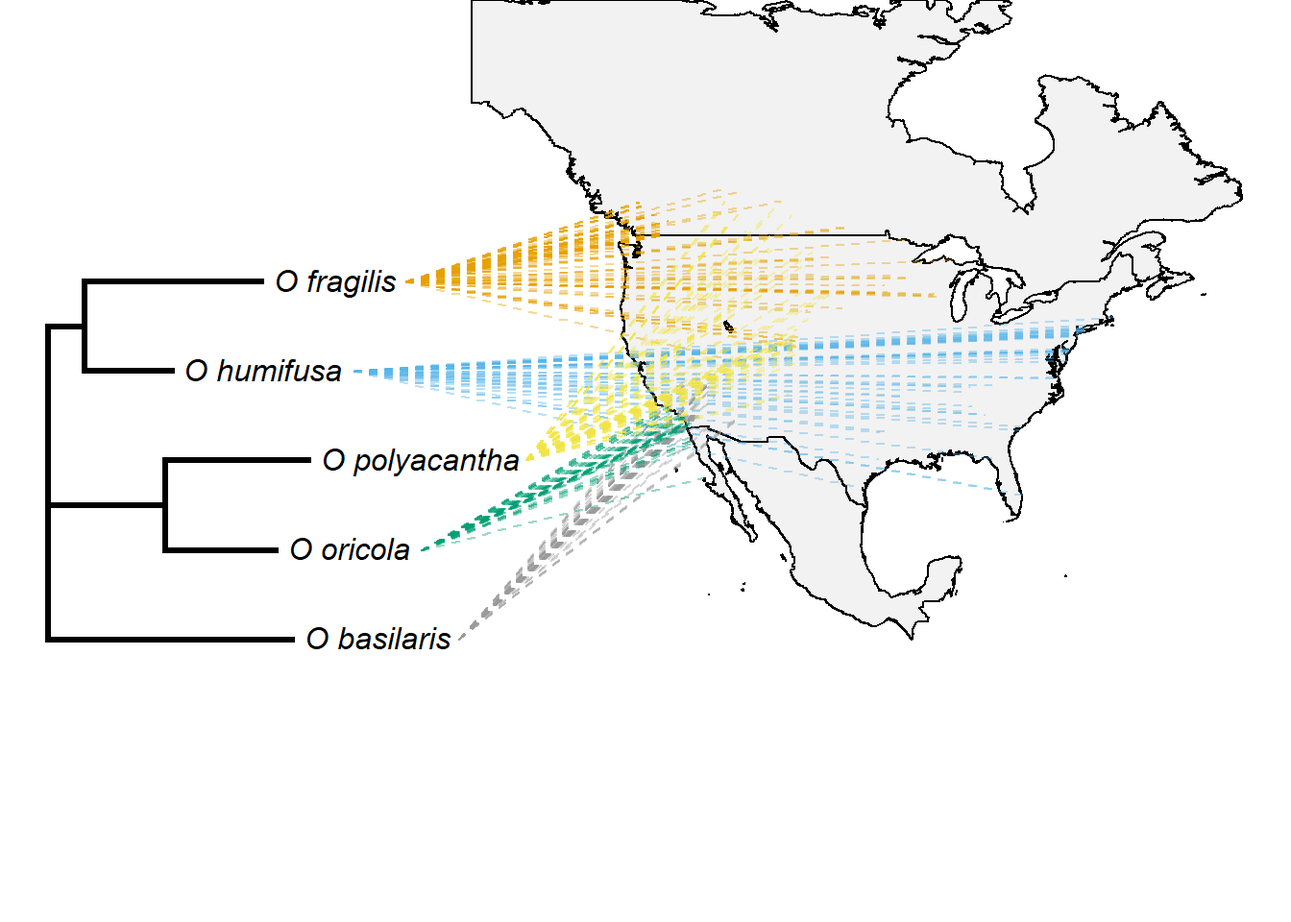
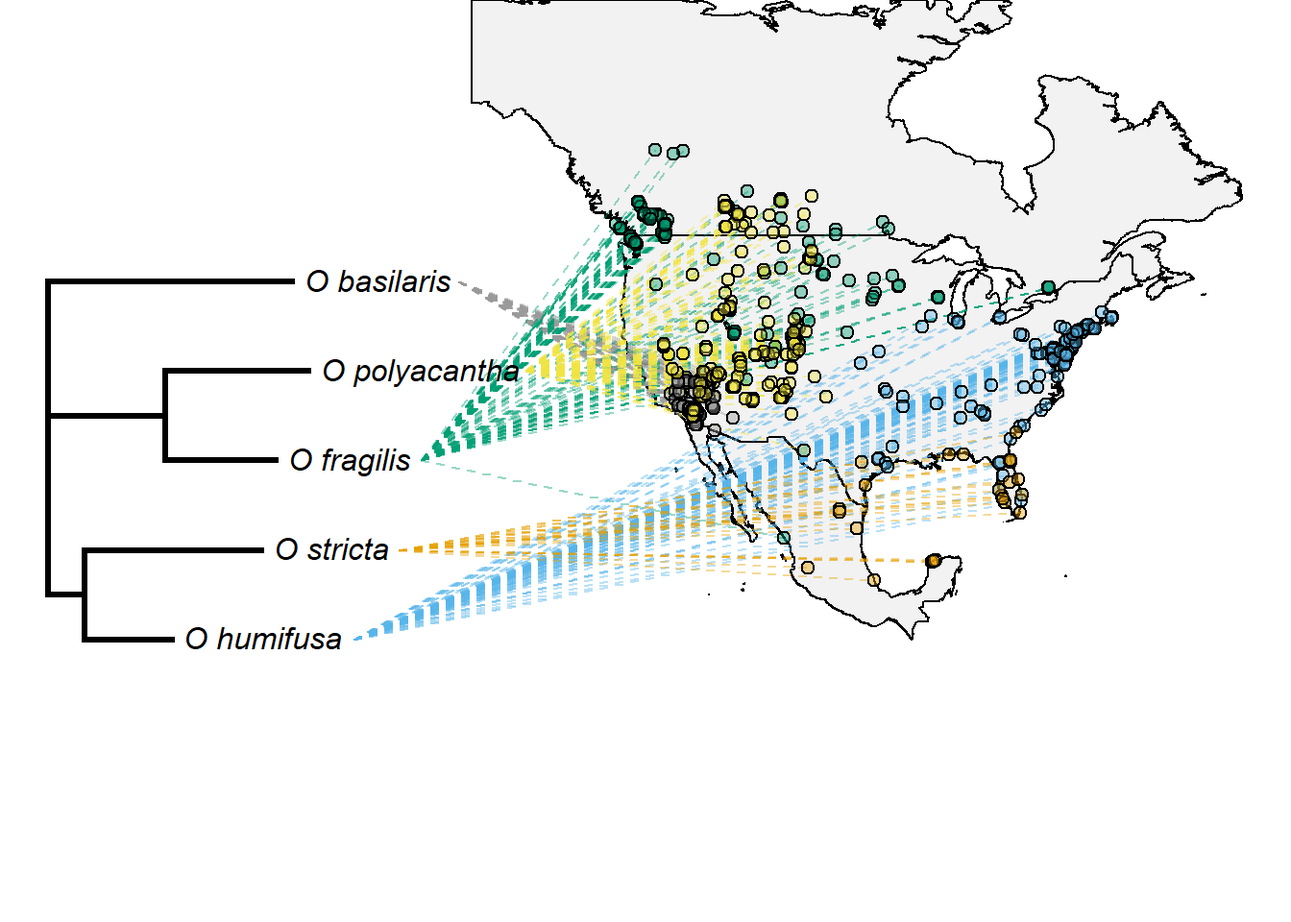
render lab10

diff --git a/docs/BIOL_324_Lab_10.html b/docs/BIOL_324_Lab_10.html
@@ -380,7 +380,7 @@ $(document).ready(function () {
 
 <h1 class="title toc-ignore">R Assignment 5: Combining Phylogenetics with Biogeography</h1>
 <h4 class="author">Mannfred Boehm</h4>
-<h4 class="date">13 August, 2020</h4>
+<h4 class="date">14 August, 2020</h4>
 
 </div>
 
@@ -440,7 +440,7 @@ $(document).ready(function () {
 <a class="sourceLine" id="cb4-4" title="4">   name <span class="op">==</span><span class="st"> &quot;Opuntia basilaris Engelm. &amp; J.M.Bigelow&quot;</span> <span class="op">~</span><span class="st"> &quot;O_basilaris&quot;</span>,</a>
 <a class="sourceLine" id="cb4-5" title="5">   name <span class="op">==</span><span class="st"> &quot;Opuntia fragilis (Nutt.) Haw.&quot;</span> <span class="op">~</span><span class="st"> &quot;O_fragilis&quot;</span>,</a>
 <a class="sourceLine" id="cb4-6" title="6">   name <span class="op">==</span><span class="st"> &quot;Opuntia humifusa Raf.&quot;</span> <span class="op">~</span><span class="st"> &quot;O_humifusa&quot;</span>,</a>
-<a class="sourceLine" id="cb4-7" title="7">   name <span class="op">==</span><span class="st"> &quot;Opuntia oricola Philbrick&quot;</span> <span class="op">~</span><span class="st"> &quot;O_oricola&quot;</span>,</a>
+<a class="sourceLine" id="cb4-7" title="7">   name <span class="op">==</span><span class="st"> &quot;Opuntia stricta (Haw.) Haw.&quot;</span> <span class="op">~</span><span class="st"> &quot;O_stricta&quot;</span>,</a>
 <a class="sourceLine" id="cb4-8" title="8">   name <span class="op">==</span><span class="st"> &quot;Opuntia polyacantha Haw.&quot;</span> <span class="op">~</span><span class="st"> &quot;O_polyacantha&quot;</span></a>
 <a class="sourceLine" id="cb4-9" title="9"> ))</a></code></pre></div>
 <p>Some more data organizing is needed.. we’ll reverse the order of the latitude and longitude columns in our GBIF dataset, and convert the <code>tibble</code> into a <code>matrix</code> (for <code>phytools</code>):</p>
@@ -455,67 +455,45 @@ $(document).ready(function () {
 <a class="sourceLine" id="cb6-4" title="4"><span class="co"># removes rows with NAs</span></a>
 <a class="sourceLine" id="cb6-5" title="5">latlong &lt;-<span class="st"> </span><span class="kw">na.omit</span>(latlong)</a></code></pre></div>
 <p>The species names need to match the exact spelling and format as in the phylogeny:</p>
-<div class="sourceCode" id="cb7"><pre class="sourceCode r"><code class="sourceCode r"><a class="sourceLine" id="cb7-1" title="1">rbcL_rooted<span class="op">$</span>tip.label &lt;-<span class="st"> </span><span class="kw">unique</span>(opuntia_fil<span class="op">$</span>short_names)</a></code></pre></div>
+<div class="sourceCode" id="cb7"><pre class="sourceCode r"><code class="sourceCode r"><a class="sourceLine" id="cb7-1" title="1">rbcL_rooted<span class="op">$</span>tip.label &lt;-<span class="st"> </span></a>
+<a class="sourceLine" id="cb7-2" title="2"><span class="st">  </span><span class="kw">c</span>(<span class="st">&quot;O_basilaris&quot;</span>, <span class="st">&quot;O_stricta&quot;</span>, <span class="st">&quot;O_humifusa&quot;</span>, <span class="st">&quot;O_fragilis&quot;</span>, <span class="st">&quot;O_polyacantha&quot;</span>)</a></code></pre></div>
 <p>And each species needs a unique colour:</p>
 <div class="sourceCode" id="cb8"><pre class="sourceCode r"><code class="sourceCode r"><a class="sourceLine" id="cb8-1" title="1">colours &lt;-<span class="st"> </span></a>
 <a class="sourceLine" id="cb8-2" title="2"><span class="st">  </span><span class="kw">setNames</span>(<span class="kw">c</span>(<span class="st">&#39;#999999&#39;</span>, <span class="st">&#39;#E69F00&#39;</span>, <span class="st">&#39;#56B4E9&#39;</span>, <span class="st">&#39;#009E73&#39;</span>, <span class="st">&#39;#F0E442&#39;</span>),</a>
 <a class="sourceLine" id="cb8-3" title="3">           rbcL_rooted<span class="op">$</span>tip.label)</a></code></pre></div>
-<div class="sourceCode" id="cb9"><pre class="sourceCode r"><code class="sourceCode r"><a class="sourceLine" id="cb9-1" title="1"><span class="cf">for</span>(i <span class="cf">in</span> <span class="dv">1</span><span class="op">:</span><span class="kw">Ntip</span>(rbcL_rooted)){</a>
-<a class="sourceLine" id="cb9-2" title="2">  spr&lt;-latlong[<span class="kw">which</span>(<span class="kw">rownames</span>(latlong)<span class="op">==</span>rbcL_rooted<span class="op">$</span>tip.label[i]),]</a>
-<a class="sourceLine" id="cb9-3" title="3">  mcp&lt;-<span class="cf">if</span>(i<span class="op">==</span><span class="dv">1</span>) spr[<span class="kw">chull</span>(spr),] <span class="cf">else</span> <span class="kw">rbind</span>(mcp,spr[<span class="kw">chull</span>(spr),])</a>
-<a class="sourceLine" id="cb9-4" title="4">}</a>
-<a class="sourceLine" id="cb9-5" title="5"></a>
-<a class="sourceLine" id="cb9-6" title="6">obj &lt;-<span class="st"> </span></a>
-<a class="sourceLine" id="cb9-7" title="7"><span class="st">  </span><span class="kw">phylo.to.map</span>(</a>
-<a class="sourceLine" id="cb9-8" title="8">    rbcL_rooted, </a>
-<a class="sourceLine" id="cb9-9" title="9">    latlong, </a>
-<a class="sourceLine" id="cb9-10" title="10">    <span class="dt">regions =</span> <span class="kw">c</span>(<span class="st">&quot;Canada&quot;</span>, <span class="st">&quot;USA&quot;</span>, <span class="st">&quot;Mexico&quot;</span>),</a>
-<a class="sourceLine" id="cb9-11" title="11">    <span class="dt">database =</span> <span class="st">&quot;worldHires&quot;</span>,</a>
-<a class="sourceLine" id="cb9-12" title="12">    <span class="dt">xlim =</span> <span class="kw">c</span>(<span class="op">-</span><span class="dv">135</span>, <span class="dv">-55</span> ),  </a>
-<a class="sourceLine" id="cb9-13" title="13">    <span class="dt">ylim =</span> <span class="kw">c</span>(<span class="dv">10</span>, <span class="dv">45</span>),</a>
-<a class="sourceLine" id="cb9-14" title="14">    <span class="dt">asp =</span> <span class="dv">4</span>,</a>
-<a class="sourceLine" id="cb9-15" title="15">    <span class="dt">lwd =</span> <span class="dv">1</span>,</a>
-<a class="sourceLine" id="cb9-16" title="16">    <span class="dt">plot =</span> <span class="ot">FALSE</span>)</a>
-<a class="sourceLine" id="cb9-17" title="17"></a>
-<a class="sourceLine" id="cb9-18" title="18"><span class="kw">plot</span>(</a>
-<a class="sourceLine" id="cb9-19" title="19">  obj, </a>
-<a class="sourceLine" id="cb9-20" title="20">  <span class="dt">direction =</span> <span class="st">&quot;rightwards&quot;</span>, </a>
-<a class="sourceLine" id="cb9-21" title="21">  <span class="dt">colors =</span> <span class="kw">sapply</span>(colours, make.transparent, <span class="fl">0.4</span>),</a>
-<a class="sourceLine" id="cb9-22" title="22">  <span class="dt">pts =</span> <span class="ot">FALSE</span>,</a>
-<a class="sourceLine" id="cb9-23" title="23">  <span class="dt">cex.points =</span> <span class="kw">c</span>(<span class="dv">0</span>,<span class="dv">0</span>),</a>
-<a class="sourceLine" id="cb9-24" title="24">  <span class="dt">lwd =</span> <span class="kw">c</span>(<span class="dv">3</span>,<span class="dv">1</span>),</a>
-<a class="sourceLine" id="cb9-25" title="25">  <span class="dt">asp =</span> <span class="fl">1.3</span>,</a>
-<a class="sourceLine" id="cb9-26" title="26">  <span class="dt">ftype =</span><span class="st">&quot;i&quot;</span>)</a></code></pre></div>
-<pre><code>## &quot;phylo.to.map&quot; direction is &quot;downwards&quot; but plot direction has been given as &quot;rightwards&quot;.
-## Re-optimizing object....</code></pre>
+<div class="sourceCode" id="cb9"><pre class="sourceCode r"><code class="sourceCode r"><a class="sourceLine" id="cb9-1" title="1">obj &lt;-<span class="st"> </span></a>
+<a class="sourceLine" id="cb9-2" title="2"><span class="st">  </span><span class="kw">phylo.to.map</span>(</a>
+<a class="sourceLine" id="cb9-3" title="3">    rbcL_rooted, </a>
+<a class="sourceLine" id="cb9-4" title="4">    latlong, </a>
+<a class="sourceLine" id="cb9-5" title="5">    <span class="dt">rotate =</span> <span class="ot">FALSE</span>,</a>
+<a class="sourceLine" id="cb9-6" title="6">    <span class="dt">regions =</span> <span class="kw">c</span>(<span class="st">&quot;Canada&quot;</span>, <span class="st">&quot;USA&quot;</span>, <span class="st">&quot;Mexico&quot;</span>),</a>
+<a class="sourceLine" id="cb9-7" title="7">    <span class="dt">database =</span> <span class="st">&quot;worldHires&quot;</span>,</a>
+<a class="sourceLine" id="cb9-8" title="8">    <span class="dt">xlim =</span> <span class="kw">c</span>(<span class="op">-</span><span class="dv">135</span>, <span class="dv">-55</span> ),  </a>
+<a class="sourceLine" id="cb9-9" title="9">    <span class="dt">ylim =</span> <span class="kw">c</span>(<span class="dv">10</span>, <span class="dv">45</span>),</a>
+<a class="sourceLine" id="cb9-10" title="10">    <span class="dt">asp =</span> <span class="dv">4</span>,</a>
+<a class="sourceLine" id="cb9-11" title="11">    <span class="dt">lwd =</span> <span class="dv">1</span>,</a>
+<a class="sourceLine" id="cb9-12" title="12">    <span class="dt">plot =</span> <span class="ot">FALSE</span>)</a>
+<a class="sourceLine" id="cb9-13" title="13"></a>
+<a class="sourceLine" id="cb9-14" title="14"><span class="kw">plot</span>(</a>
+<a class="sourceLine" id="cb9-15" title="15">  obj, </a>
+<a class="sourceLine" id="cb9-16" title="16">  <span class="dt">direction =</span> <span class="st">&quot;rightwards&quot;</span>, </a>
+<a class="sourceLine" id="cb9-17" title="17">  <span class="dt">colors =</span> <span class="kw">sapply</span>(colours, make.transparent, <span class="fl">0.4</span>),</a>
+<a class="sourceLine" id="cb9-18" title="18">  <span class="dt">pts =</span> <span class="ot">TRUE</span>,</a>
+<a class="sourceLine" id="cb9-19" title="19">  <span class="dt">cex.points =</span> <span class="kw">c</span>(<span class="dv">0</span>,<span class="dv">1</span>),</a>
+<a class="sourceLine" id="cb9-20" title="20">  <span class="dt">lwd =</span> <span class="kw">c</span>(<span class="dv">3</span>,<span class="dv">1</span>),</a>
+<a class="sourceLine" id="cb9-21" title="21">  <span class="dt">asp =</span> <span class="fl">1.3</span>,</a>
+<a class="sourceLine" id="cb9-22" title="22">  <span class="dt">ftype =</span><span class="st">&quot;i&quot;</span>)</a></code></pre></div>
 <p><img src="BIOL_324_Lab_10_files/figure-html/unnamed-chunk-9-1.png" width="672" /></p>
-<hr />
-</div>
-<div id="activity-2-deciphering-some-code" class="section level4">
-<h4>Activity 2: Deciphering some code</h4>
-<p>Let’s step through the script in order to understand what is happening here.</p>
-<p><br></p>
-<p><strong>Lines 14-18</strong>: The <code>library()</code> function loads various packages designed specifically for organizing data (<code>tidyverse</code>), creating custom colour palettes (<code>viridis</code>), and mapping (<code>mapdata</code>, <code>phytools</code>).</p>
-<p><strong>Lines 24-27</strong>: Import your GBIF and phylogenetic data from previous assignments.</p>
-<p><strong>Lines 30-38</strong>: To reduce clutter in our plot, we’ll rename the rows in our dataframe with shortened versions of the species’ names.</p>
-<p><strong>Lines 41-44</strong>: We’ll extract the latitude and longitude information from our larger dataframe, and store it as a <code>matrix</code> style object. (This is because <code>phytools::phylo.to.map()</code> can only handle lat-long info of the <code>matrix</code> class.)</p>
-<p><strong>Line 50</strong>: Here, we’re removing any rows that have missing lat-long information (NAs).</p>
-<p><strong>Line 53</strong>: In order to combine the phylogenetic and distribution data, both data objects need to have the species names in the same format.</p>
-<p><strong>Lines 71-81</strong>: The <code>phytools::phylo.to.map()</code> function combines our distribution data <code>latlong</code> with our phylogenetic tree <code>con_tree_rooted</code>. We use the <code>regions</code> parameter to specify what parts of the world to plot, and we’ll use the ‘Hi-resolution World’ setting under <code>database</code>.</p>
-<p><strong>Lines 84-92</strong>: We can plot our combined dataset using the <code>phytools::plot()</code> function.</p>
-<p><br></p>
-<div class="figure">
-<img src="opuntia_phylogeography_pts.jpg" alt="Figure 1: Phylogeographic distribution (with points) of some North American Opuntia." />
-<p class="caption">Figure 1: Phylogeographic distribution (with points) of some North American <em>Opuntia</em>.</p>
-</div>
-<p><br> <br></p>
-<p><strong>Lines 84-92</strong>: In this example, we’ve set <code>cex.points</code> to zero, which tells the plotting function not to plots circles at each lat-long location. This can make our map a bit cleaner when plotting hulls.</p>
-<p><br></p>
-<div class="figure">
-<img src="opuntia_phylogeography_hulls.jpg" alt="Figure 2: Phylogeographic distribution (with hulls) of some North American Opuntia." />
-<p class="caption">Figure 2: Phylogeographic distribution (with hulls) of some North American <em>Opuntia</em>.</p>
-</div>
-<p><br> <br></p>
+<!-- To plot polygons, set pts = FALSE and cex.point = c(0,0) in plot() and run: -->
+<!-- for(i in 1:Ntip(rbcL_rooted)){ -->
+<!--   spr<-latlong[which(rownames(latlong)==rbcL_rooted$tip.label[i]),] -->
+<!--   mcp<-if(i==1) spr[chull(spr),] else rbind(mcp,spr[chull(spr),]) -->
+<!-- } -->
+<!-- for(i in 1:Ntip(rbcL_rooted)){ -->
+<!--   ii<-which(rownames(mcp)==rbcL_rooted$tip.label[i]) -->
+<!--   polygon(mcp[ii,2:1],col=make.transparent(colours[rbcL_rooted$tip.label[i]],0.8), -->
+<!--           border="darkgrey") -->
+<!-- } -->
 </div>
 
 

diff --git a/docs/BIOL_324_Lab_9.html b/docs/BIOL_324_Lab_9.html
@@ -380,7 +380,7 @@ $(document).ready(function () {
 
 <h1 class="title toc-ignore">R Assignment 4: Creating Phylogenetic Trees using Genbank data</h1>
 <h4 class="author">Mannfred Boehm</h4>
-<h4 class="date">13 August, 2020</h4>
+<h4 class="date">14 August, 2020</h4>
 
 </div>
 
@@ -455,7 +455,7 @@ $(document).ready(function () {
 <p>We can inspect the DNA sequence for <em>O. basilaris</em> by running:</p>
 <div class="sourceCode" id="cb5"><pre class="sourceCode r"><code class="sourceCode r"><a class="sourceLine" id="cb5-1" title="1"><span class="kw">head</span>(matK<span class="op">$</span><span class="st">`</span><span class="dt">O. basilaris</span><span class="st">`</span>)</a></code></pre></div>
 <pre><code>## [1] &quot;TCAATATTTCCCTTTTTCGAGGACAAATTCTTACATTTAAATTATGTGTTAAAAATATTAATACCTTACCCCATTCATCTAGAAATCTTGGTTCAAACTCTTCGTTACTGGGTGAAAGATGCTTCTTCTTTGCATTTATTACGATTCTTTCTTTATGAGTATCGTAATTGGAATAGTCTTATTACTCCCCAAAAATCCATTTCTATTTTTTCAAAAAAGAATCAACGATTATTCTTGTTCCTATATAATTTCCATGTATGTGAATACGAATCCATTTTCGTTTTTCTCTGTAACCAATCCTCTCATTTACGATCTTTTACTTTTGGAGCCCTTCTTGAACGAATCTATTTTTATGGAAAGCGTGAATATCTAGTAAAAGTAAAAACTTTATCTAAGGATTTTCGTCTTATCTTATGGCTTTTCAAAGACCCTTTCCTGCATTATGAATTGTATCGAGGAAAAGAAATTCTGGCTTCAAAGGGGACATCTCTTCTGATGCATAAATGGAAATATTATCTTAACAATTTTTGGCAATGCCATTTTTCCCTGTGGTCTCAACCAAGAAGAATCTATATCAATCGATTATCAAAGCATTCTCTCGACTTTATGAGTTTTTTTTCAAGTGTTCGACTCAATTCTTCAGTGGTACGGAGTCAAATGGTAGAAAATTCATTTCTAATAGATAATCCTATTAAGAAATTCGATACCATAGTTCGAATTATTCCTCTGGTTGGATCGTTGGCTAAAGCGAAATTTTGTAACGTATTAGGACATCCCGTTAGTAAGTCGGTCTGGACCGATTTATTAGATTCTGATATTATTGATCGGTTTGGGCGCATATGCAGAAATCTTTCTCATTATTATAGTGGCTCTTCAAGAAAAAAGAGTTTGTATCGAATAAAGTATATA&quot;</code></pre>
-<p>Cool, <a href="https://pubmed.ncbi.nlm.nih.gov/16100764/">I feel like I’m on CSI</a>. The code for searching and downloading the rbcL sequences is similar:</p>
+<p>Cool, <a href="https://pubmed.ncbi.nlm.nih.gov/16100764/">it’s like we’re on CSI</a>. The code for searching and downloading the rbcL sequences is similar:</p>
 <div class="sourceCode" id="cb7"><pre class="sourceCode r"><code class="sourceCode r"><a class="sourceLine" id="cb7-1" title="1"><span class="co"># call GenBank</span></a>
 <a class="sourceLine" id="cb7-2" title="2">rbcL &lt;-<span class="st"> </span></a>
 <a class="sourceLine" id="cb7-3" title="3"><span class="st">  </span><span class="kw">read.GenBank</span>(</a>
@@ -496,8 +496,9 @@ $(document).ready(function () {
 <a class="sourceLine" id="cb11-3" title="3">      <span class="dt">type =</span><span class="st">&#39;dna&#39;</span>, </a>
 <a class="sourceLine" id="cb11-4" title="4">      <span class="dt">method =</span><span class="st">&#39;ClustalW&#39;</span>,</a>
 <a class="sourceLine" id="cb11-5" title="5">      <span class="dt">verbose =</span> <span class="ot">TRUE</span>)</a></code></pre></div>
-<div class="sourceCode" id="cb12"><pre class="sourceCode r"><code class="sourceCode r"><a class="sourceLine" id="cb12-1" title="1"><span class="co"># inspect alignment</span></a>
-<a class="sourceLine" id="cb12-2" title="2"><span class="kw">print</span>(rbcL_alignment)</a></code></pre></div>
+<pre><code>## use default substitution matrix</code></pre>
+<div class="sourceCode" id="cb13"><pre class="sourceCode r"><code class="sourceCode r"><a class="sourceLine" id="cb13-1" title="1"><span class="co"># inspect alignment</span></a>
+<a class="sourceLine" id="cb13-2" title="2"><span class="kw">print</span>(rbcL_alignment)</a></code></pre></div>
 <pre><code>## CLUSTAL 2.1  
 ## 
 ## Call:
@@ -512,29 +513,29 @@ $(document).ready(function () {
 ## [5] --TTTTAAAGTAAACTATGTCGAAAT...TAAAAATTTTCATCAAATTAAGTTG O. polyacantha
 ## Con -----TAAAGTAAACTATGTCGAAAT...TAAAAATTTTCATCAAAT------- Consensus</code></pre>
 <p>We’re ready to create some phylogenetic trees! First, we’ll convert our alignment objects to <code>seqinr</code> objects. Then, we’ll use the <code>dist.alignment()</code> function to calculate how similar or different each species’ sequence is from one another. We’ll do this for the matK, rbcL, and concatenated sequences, so that we can compare the trees:</p>
-<div class="sourceCode" id="cb14"><pre class="sourceCode r"><code class="sourceCode r"><a class="sourceLine" id="cb14-1" title="1"><span class="co"># convert alignment object into seqinr object </span></a>
-<a class="sourceLine" id="cb14-2" title="2">matK_r &lt;-<span class="st"> </span><span class="kw">msaConvert</span>(matK_alignment, <span class="dt">type=</span><span class="st">&quot;seqinr::alignment&quot;</span>) </a>
-<a class="sourceLine" id="cb14-3" title="3">rbcL_r &lt;-<span class="st"> </span><span class="kw">msaConvert</span>(rbcL_alignment, <span class="dt">type=</span><span class="st">&quot;seqinr::alignment&quot;</span>) </a>
-<a class="sourceLine" id="cb14-4" title="4">  </a>
-<a class="sourceLine" id="cb14-5" title="5"><span class="co"># create distance matrices</span></a>
-<a class="sourceLine" id="cb14-6" title="6">matK_dist &lt;-<span class="st"> </span><span class="kw">dist.alignment</span>(matK_r)</a>
-<a class="sourceLine" id="cb14-7" title="7">rbcL_dist &lt;-<span class="st"> </span><span class="kw">dist.alignment</span>(rbcL_r)</a></code></pre></div>
+<div class="sourceCode" id="cb15"><pre class="sourceCode r"><code class="sourceCode r"><a class="sourceLine" id="cb15-1" title="1"><span class="co"># convert alignment object into seqinr object </span></a>
+<a class="sourceLine" id="cb15-2" title="2">matK_r &lt;-<span class="st"> </span><span class="kw">msaConvert</span>(matK_alignment, <span class="dt">type=</span><span class="st">&quot;seqinr::alignment&quot;</span>) </a>
+<a class="sourceLine" id="cb15-3" title="3">rbcL_r &lt;-<span class="st"> </span><span class="kw">msaConvert</span>(rbcL_alignment, <span class="dt">type=</span><span class="st">&quot;seqinr::alignment&quot;</span>) </a>
+<a class="sourceLine" id="cb15-4" title="4">  </a>
+<a class="sourceLine" id="cb15-5" title="5"><span class="co"># create distance matrices</span></a>
+<a class="sourceLine" id="cb15-6" title="6">matK_dist &lt;-<span class="st"> </span><span class="kw">dist.alignment</span>(matK_r)</a>
+<a class="sourceLine" id="cb15-7" title="7">rbcL_dist &lt;-<span class="st"> </span><span class="kw">dist.alignment</span>(rbcL_r)</a></code></pre></div>
 <p>Now, we’ll use the <code>nj()</code> function to construct trees. In the next step, we’ll ‘root’ our trees by deciding which species is the outgroup:</p>
-<div class="sourceCode" id="cb15"><pre class="sourceCode r"><code class="sourceCode r"><a class="sourceLine" id="cb15-1" title="1"><span class="co"># neighbour joining trees</span></a>
-<a class="sourceLine" id="cb15-2" title="2">matK_tree &lt;-<span class="st"> </span><span class="kw">nj</span>(matK_dist)</a>
-<a class="sourceLine" id="cb15-3" title="3">rbcL_tree &lt;-<span class="st"> </span><span class="kw">nj</span>(rbcL_dist)</a>
-<a class="sourceLine" id="cb15-4" title="4"></a>
-<a class="sourceLine" id="cb15-5" title="5">rbcL_rooted &lt;-<span class="st"> </span><span class="kw">root</span>(rbcL_tree, <span class="dt">outgroup =</span> <span class="st">&#39;O. basilaris&#39;</span>, <span class="dt">resolve.root =</span> T)</a>
-<a class="sourceLine" id="cb15-6" title="6">matK_rooted &lt;-<span class="st"> </span><span class="kw">root</span>(matK_tree, <span class="dt">outgroup =</span> <span class="st">&#39;O. basilaris&#39;</span>, <span class="dt">resolve.root =</span> T)</a></code></pre></div>
+<div class="sourceCode" id="cb16"><pre class="sourceCode r"><code class="sourceCode r"><a class="sourceLine" id="cb16-1" title="1"><span class="co"># neighbour joining trees</span></a>
+<a class="sourceLine" id="cb16-2" title="2">matK_tree &lt;-<span class="st"> </span><span class="kw">nj</span>(matK_dist)</a>
+<a class="sourceLine" id="cb16-3" title="3">rbcL_tree &lt;-<span class="st"> </span><span class="kw">nj</span>(rbcL_dist)</a>
+<a class="sourceLine" id="cb16-4" title="4"></a>
+<a class="sourceLine" id="cb16-5" title="5">rbcL_rooted &lt;-<span class="st"> </span><span class="kw">root</span>(rbcL_tree, <span class="dt">outgroup =</span> <span class="st">&#39;O. basilaris&#39;</span>, <span class="dt">resolve.root =</span> T)</a>
+<a class="sourceLine" id="cb16-6" title="6">matK_rooted &lt;-<span class="st"> </span><span class="kw">root</span>(matK_tree, <span class="dt">outgroup =</span> <span class="st">&#39;O. basilaris&#39;</span>, <span class="dt">resolve.root =</span> T)</a></code></pre></div>
 <p>Plot your new trees:</p>
-<div class="sourceCode" id="cb16"><pre class="sourceCode r"><code class="sourceCode r"><a class="sourceLine" id="cb16-1" title="1"><span class="co"># plot trees</span></a>
-<a class="sourceLine" id="cb16-2" title="2"><span class="kw">plot</span>(matK_rooted, <span class="dt">main =</span><span class="st">&#39;matK tree&#39;</span>)</a></code></pre></div>
+<div class="sourceCode" id="cb17"><pre class="sourceCode r"><code class="sourceCode r"><a class="sourceLine" id="cb17-1" title="1"><span class="co"># plot trees</span></a>
+<a class="sourceLine" id="cb17-2" title="2"><span class="kw">plot</span>(matK_rooted, <span class="dt">main =</span><span class="st">&#39;matK tree&#39;</span>)</a></code></pre></div>
 <p><img src="BIOL_324_Lab_9_files/figure-html/unnamed-chunk-13-1.png" width="672" /></p>
-<div class="sourceCode" id="cb17"><pre class="sourceCode r"><code class="sourceCode r"><a class="sourceLine" id="cb17-1" title="1"><span class="kw">plot</span>(rbcL_rooted, <span class="dt">main =</span> <span class="st">&#39;rbcL tree&#39;</span>)</a></code></pre></div>
+<div class="sourceCode" id="cb18"><pre class="sourceCode r"><code class="sourceCode r"><a class="sourceLine" id="cb18-1" title="1"><span class="kw">plot</span>(rbcL_rooted, <span class="dt">main =</span> <span class="st">&#39;rbcL tree&#39;</span>)</a></code></pre></div>
 <p><img src="BIOL_324_Lab_9_files/figure-html/unnamed-chunk-13-2.png" width="672" /></p>
 <p>Finally, we’ll save our trees so that we can use them again in Lab 10:</p>
-<div class="sourceCode" id="cb18"><pre class="sourceCode r"><code class="sourceCode r"><a class="sourceLine" id="cb18-1" title="1"><span class="kw">saveRDS</span>(matK_rooted, <span class="dt">file =</span> <span class="kw">here</span>(<span class="st">&#39;R_scripts/matK_rooted.rds&#39;</span>))</a>
-<a class="sourceLine" id="cb18-2" title="2"><span class="kw">saveRDS</span>(rbcL_rooted, <span class="dt">file =</span> <span class="kw">here</span>(<span class="st">&#39;R_scripts/rbcL_rooted.rds&#39;</span>))</a></code></pre></div>
+<div class="sourceCode" id="cb19"><pre class="sourceCode r"><code class="sourceCode r"><a class="sourceLine" id="cb19-1" title="1"><span class="kw">saveRDS</span>(matK_rooted, <span class="dt">file =</span> <span class="kw">here</span>(<span class="st">&#39;R_scripts/matK_rooted.rds&#39;</span>))</a>
+<a class="sourceLine" id="cb19-2" title="2"><span class="kw">saveRDS</span>(rbcL_rooted, <span class="dt">file =</span> <span class="kw">here</span>(<span class="st">&#39;R_scripts/rbcL_rooted.rds&#39;</span>))</a></code></pre></div>
 <p><strong>-KNOWLEDGE CHECK-</strong> How do the matK and rbcL trees differ? Which tree best aligns with the <a href="https://bsapubs.onlinelibrary.wiley.com/doi/full/10.3732/ajb.1100375">Majure tree (Figure 3)</a>? According to Majure et al (2012), why might our trees differ?</p>
 <!-- For consensus trees: -->
 <!-- Recall that matK and rbcL are two separate segments of the chloroplast genome. By sticking them together, we'll create a super-sequence that contains more information than either of the sequences alone. The more sequence information, the better, because it gives us a bigger sample of the entire genome. Concatenation is done by the `seqinr` package, so we'll need to convert our alignment objects into `seqinr` objects: -->

diff --git a/docs/BIOL_324_Lab_7.html b/docs/BIOL_324_Lab_7.html
@@ -380,7 +380,7 @@ $(document).ready(function () {
 
 <h1 class="title toc-ignore">R Assignment 2: Mapping Species Distributions using R and GBIF</h1>
 <h4 class="author">Mannfred Boehm</h4>
-<h4 class="date">13 August, 2020</h4>
+<h4 class="date">14 August, 2020</h4>
 
 </div>
 
@@ -568,12 +568,15 @@ $(document).ready(function () {
 <a class="sourceLine" id="cb26-5" title="5"><span class="st">&quot;Opuntia polyacantha Haw.&quot;</span>,</a>
 <a class="sourceLine" id="cb26-6" title="6"><span class="st">&quot;Opuntia stricta (Haw.) Haw.&quot;</span>)</a>
 <a class="sourceLine" id="cb26-7" title="7"></a>
-<a class="sourceLine" id="cb26-8" title="8"><span class="co"># filter out synonyms </span></a>
-<a class="sourceLine" id="cb26-9" title="9"><span class="co"># filter out entries with positive longitude</span></a>
-<a class="sourceLine" id="cb26-10" title="10">opuntia_fil&lt;-<span class="st">  </span></a>
-<a class="sourceLine" id="cb26-11" title="11"><span class="st">  </span>opuntia_combined <span class="op">%&gt;%</span><span class="st"> </span></a>
-<a class="sourceLine" id="cb26-12" title="12"><span class="st">  </span><span class="kw">filter</span>(scientificName <span class="op">==</span><span class="st"> </span>opuntia_accepted) <span class="op">%&gt;%</span><span class="st"> </span></a>
-<a class="sourceLine" id="cb26-13" title="13"><span class="st">  </span><span class="kw">filter</span>(longitude <span class="op">&lt;</span><span class="st"> </span><span class="dv">0</span>)</a></code></pre></div>
+<a class="sourceLine" id="cb26-8" title="8">country_accepted &lt;-<span class="st"> </span><span class="kw">c</span>(<span class="st">&quot;United States of America&quot;</span>, <span class="st">&quot;Mexico&quot;</span>, <span class="st">&quot;Canada&quot;</span>)</a>
+<a class="sourceLine" id="cb26-9" title="9"></a>
+<a class="sourceLine" id="cb26-10" title="10"><span class="co"># filter out synonyms </span></a>
+<a class="sourceLine" id="cb26-11" title="11"><span class="co"># filter out entries outside of North America</span></a>
+<a class="sourceLine" id="cb26-12" title="12">opuntia_fil&lt;-<span class="st">  </span></a>
+<a class="sourceLine" id="cb26-13" title="13"><span class="st">  </span>opuntia_combined <span class="op">%&gt;%</span><span class="st"> </span></a>
+<a class="sourceLine" id="cb26-14" title="14"><span class="st">  </span><span class="kw">filter</span>(scientificName <span class="op">==</span><span class="st"> </span>opuntia_accepted) <span class="op">%&gt;%</span><span class="st"> </span></a>
+<a class="sourceLine" id="cb26-15" title="15"><span class="st">  </span><span class="kw">filter</span>(longitude <span class="op">&lt;</span><span class="st"> </span><span class="dv">-58</span> <span class="op">&amp;</span><span class="st"> </span>latitude <span class="op">&gt;</span><span class="st"> </span><span class="fl">18.1</span>) <span class="op">%&gt;%</span><span class="st"> </span></a>
+<a class="sourceLine" id="cb26-16" title="16"><span class="st">  </span><span class="kw">filter</span>(basisOfRecord <span class="op">==</span><span class="st"> &quot;HUMAN_OBSERVATION&quot;</span>)</a></code></pre></div>
 <p>We’re ready to map! Pick some colours for your species (you can pick your own <a href="http://www.cookbook-r.com/Graphs/Colors_(ggplot2)/">from here</a>):</p>
 <div class="sourceCode" id="cb27"><pre class="sourceCode r"><code class="sourceCode r"><a class="sourceLine" id="cb27-1" title="1">mycolors &lt;-<span class="st"> </span><span class="kw">c</span>( <span class="st">&quot;#E69F00&quot;</span>, <span class="st">&quot;#56B4E9&quot;</span>,  <span class="st">&quot;#F0E442&quot;</span>, <span class="st">&quot;#D55E00&quot;</span>, <span class="st">&quot;#CC79A7&quot;</span>)</a></code></pre></div>
 <p>And map using the <code>map_ggplot()</code> function:</p>

diff --git a/docs/BIOL_324_Lab_6.html b/docs/BIOL_324_Lab_6.html
@@ -380,7 +380,7 @@ $(document).ready(function () {
 
 <h1 class="title toc-ignore">Lab 6: Lamiaceae, Schrophularioids, and R Assignment 1 - Introduction to R and RStudio</h1>
 <h4 class="author">Mannfred Boehm and Evan Hersh</h4>
-<h4 class="date">13 August, 2020</h4>
+<h4 class="date">14 August, 2020</h4>
 
 </div>
 

diff --git a/docs/BIOL_324_Lab_8.html b/docs/BIOL_324_Lab_8.html
@@ -290,7 +290,7 @@ $(document).ready(function () {
 
 <h1 class="title toc-ignore">R Assignment 3: Species Delimitation using Morphometrics and Machine Learning</h1>
 <h4 class="author">Mannfred Boehm</h4>
-<h4 class="date">13 August, 2020</h4>
+<h4 class="date">14 August, 2020</h4>
 
 </div>
 

diff --git a/docs/BIOL_324_Lab_2.html b/docs/BIOL_324_Lab_2.html
@@ -290,7 +290,7 @@ $(document).ready(function () {
 
 <h1 class="title toc-ignore">Lab 2: Basic floral structure, Ranunculaceae, and keying.</h1>
 <h4 class="author">Evan Hersh</h4>
-<h4 class="date">13 August, 2020</h4>
+<h4 class="date">14 August, 2020</h4>
 
 </div>
 
